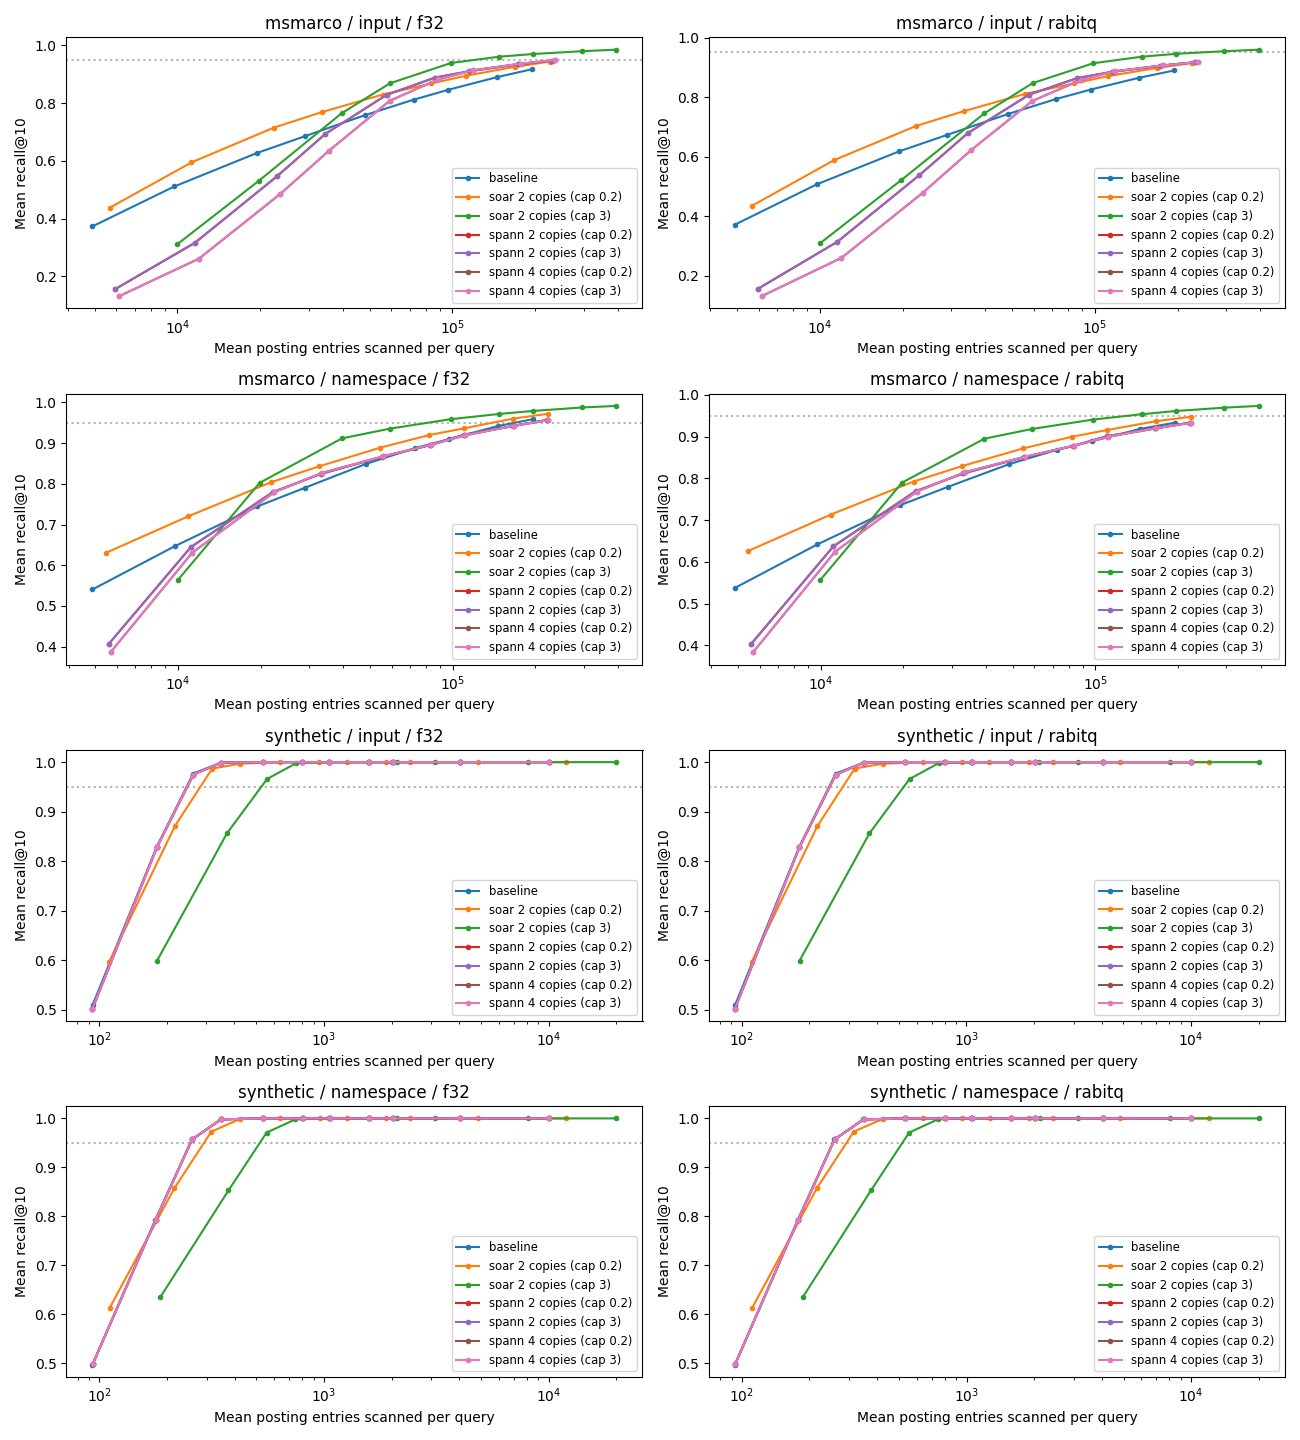
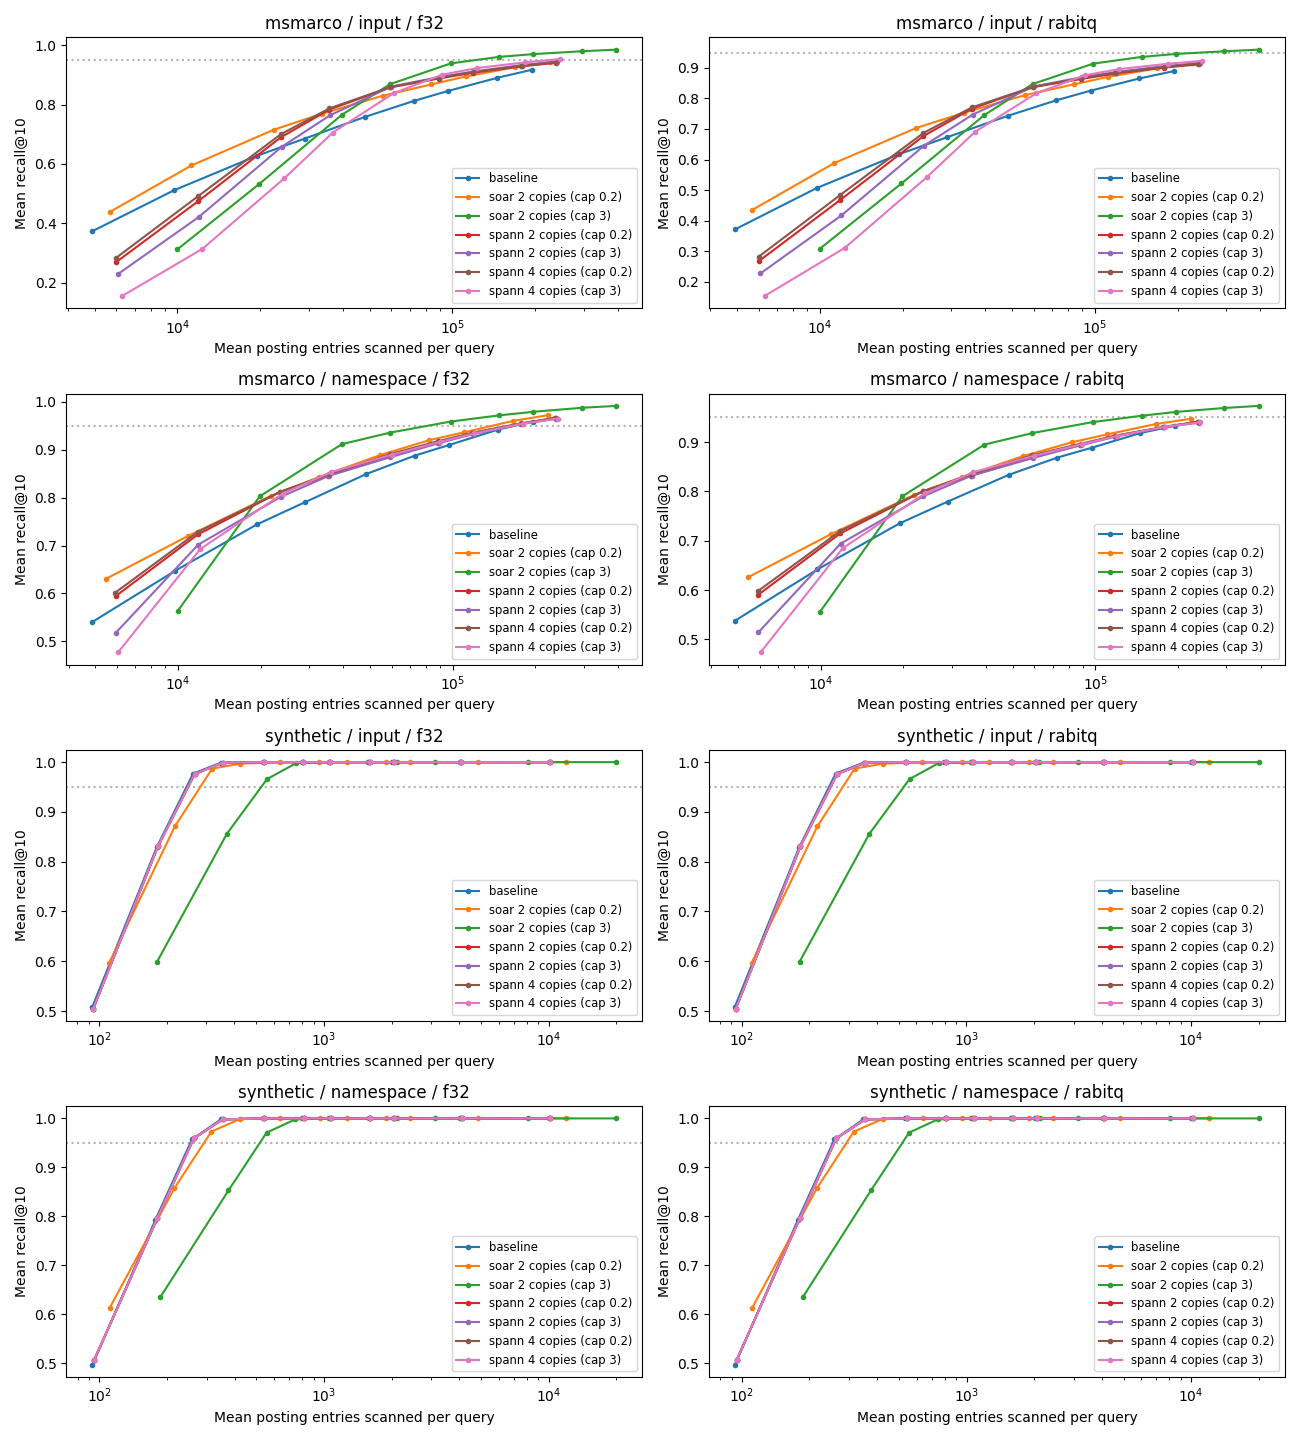
fix(vector): keep nearer SPANN spill candidates eligible
---kosha-bench---
microbenchmark: segment_memory (cargo bench -p kosha-query --bench segment_memory)
corpus: 8 segments × 4000 docs (32000 total), vocab ~20000
runner: Linux 6.8.0-1060-aws x86_64 | rustc 1.99.1 (58cf8f9c3 2026-10-13) | 2026-11-24T00:49:24Z

latency (v2 = current lazy format, median of inner samples):
  cold broad ("the")                 3.3 ms
  warm broad ("the")                 0.41 ms
  warm 2-term AND                    0.29 ms
  warm phrase                        0.23 ms
  warm wildcard w1*                  260.57 ms
---end kosha-bench---

diff --git a/crates/kosha-vector-spfresh/src/replication.rs b/crates/kosha-vector-spfresh/src/replication.rs
@@ -90,10 +90,9 @@ pub fn boundary_replicas(postings: &[PostingSnapshot], assignment: Assignment) -
                     accepted.clear();
                     accepted.push(owner);
                     for &j in &candidates {
-                        if accepted
-                            .iter()
-                            .any(|&i| center_distances[i][j] < distances[j])
-                        {
+                        if accepted.iter().any(|&i| {
+                            distances[i] <= distances[j] && center_distances[i][j] < distances[j]
+                        }) {
                             continue;
                         }
                         accepted.push(j);
@@ -180,6 +179,21 @@ mod tests {
                 .collect::<Vec<_>>(),
             [(8, 1)]
         );
+    }
+
+    #[test]
+    fn spann_owner_cannot_veto_a_nearer_posting() {
+        let at = |theta: f32| [theta.cos(), theta.sin()];
+        let postings = [posting(&at(0.4), Some(&at(0.0))), posting(&at(0.3), None)];
+        let spills = boundary_replicas(
+            &postings,
+            Assignment::Spann {
+                epsilon: 0.0,
+                max_copies: 2,
+            },
+        );
+        assert_eq!(spills.len(), 1);
+        assert_eq!(spills[0].posting, 1);
     }
 
     #[test]

diff --git a/docs/research/457-boundary-replication.md b/docs/research/457-boundary-replication.md
@@ -85,11 +85,11 @@ MSMarco RaBitQ results (1,000 queries, up to 20% of postings probed):
 | Layout | Variant | Peak recall@10 | Entries scanned at ≥0.95 | Index growth |
 |---|---|---:|---:|---:|
 | Input order | One copy | 0.8894 | — | — |
-| Input order | SPANN, up to four copies | 0.9181 | — | +13.1% |
+| Input order | SPANN, up to four copies, uncapped | 0.9228 | — | +18.0% |
 | Input order | SOAR, 20% cap | 0.9144 | — | +14.7% |
 | Input order | SOAR, uncapped | 0.9594 | 295,534 | +73.5% |
 | Namespace | One copy | 0.9334 | — | — |
-| Namespace | SPANN, up to four copies | 0.9328 | — | +9.5% |
+| Namespace | SPANN, up to four copies, uncapped | 0.9401 | — | +17.0% |
 | Namespace | SOAR, 20% cap | 0.9474 | — | +14.7% |
 | Namespace | SOAR, uncapped | 0.9735 | 147,371 | +73.7% |
 
@@ -100,4 +100,4 @@ that target. On namespace f32, uncapped SOAR scanned 98,207 entries versus
 195,237 for the baseline (1.99× fewer), but p10 recall fell from 0.90 to
 0.80. Capped SOAR scanned 166,001 and kept p10 at 0.90. On the recall
 fixture, capped SOAR scanned more entries at the target than the baseline
-in both layouts; SPANN added at most 24 entries and made little difference.
+in both layouts; SPANN added at most 157 entries and made little difference.
